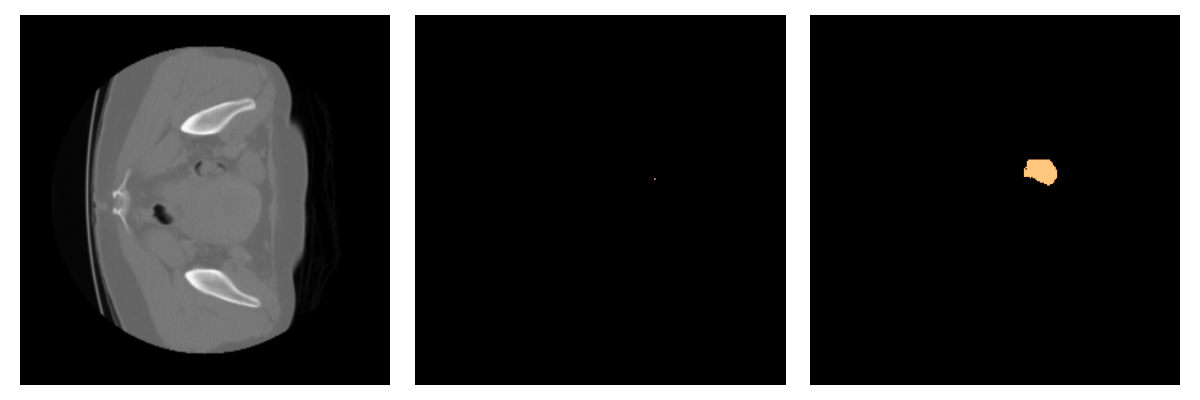
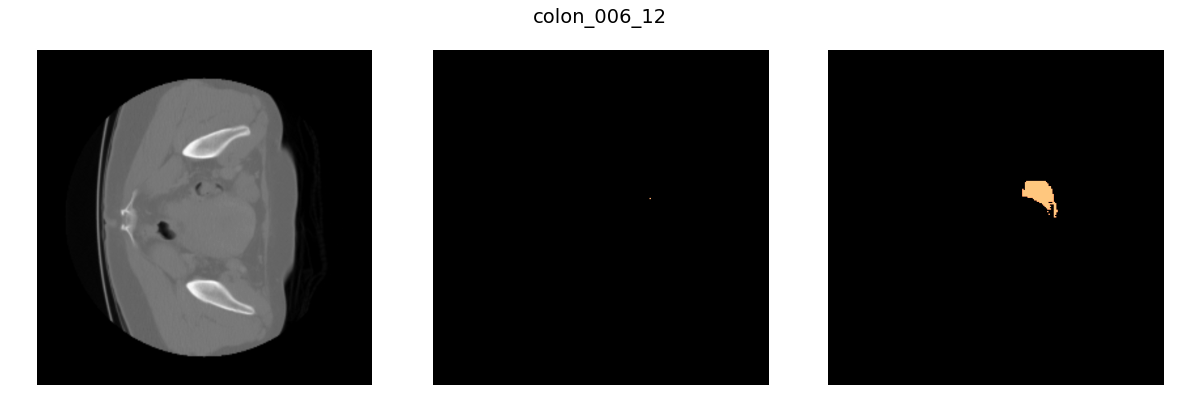
some example predictions

diff --git a/SAM-inference.py b/SAM-inference.py
@@ -120,7 +120,6 @@ def makePredictions(test_loader):
     # Iteratire through test images
     with torch.no_grad():
         for batch in tqdm(test_loader):
-
             # forward pass
             outputs = model(pixel_values=batch["pixel_values"], #.cuda(),
                         input_boxes=batch["input_boxes"],   #.cuda(),
@@ -155,9 +154,10 @@ def makePredictions(test_loader):
             plt.tight_layout()
             
 
-            #plt .savefig('./output/plots/'+name+'-prediction.png')
+            plt .savefig('./output/plots/'+name+'-prediction.png')
 
-            plt.savefig('./output/plots/model-prediction.png')
+            #plt.savefig('./output/plots/model-prediction.png')
+
             
 
 
